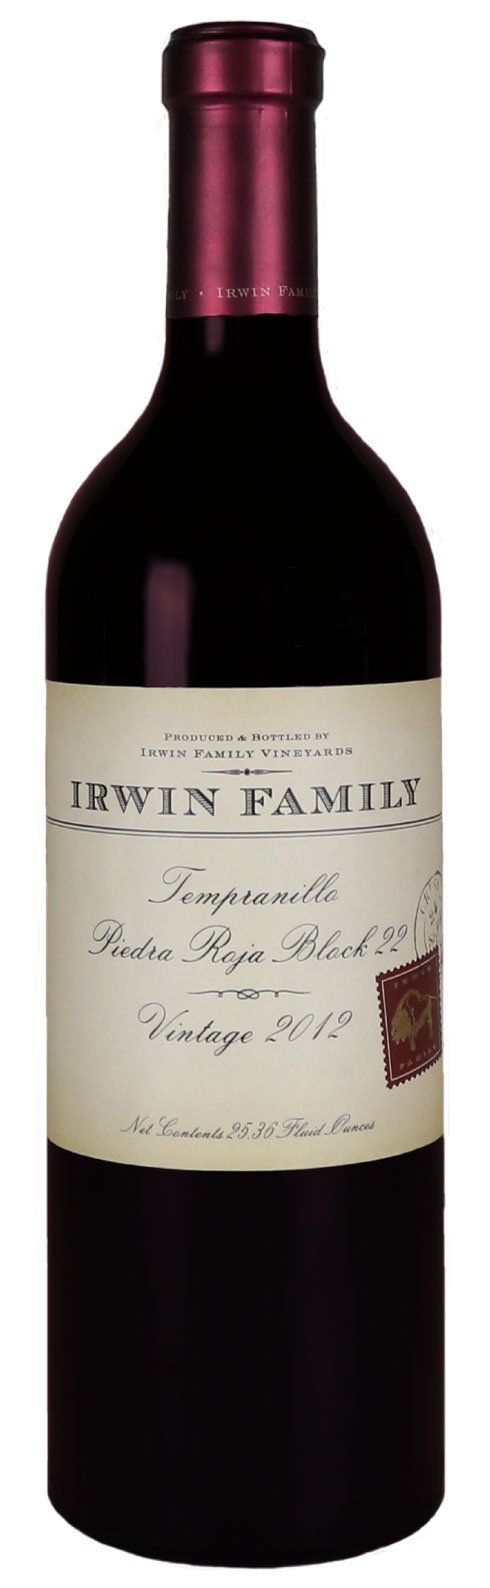
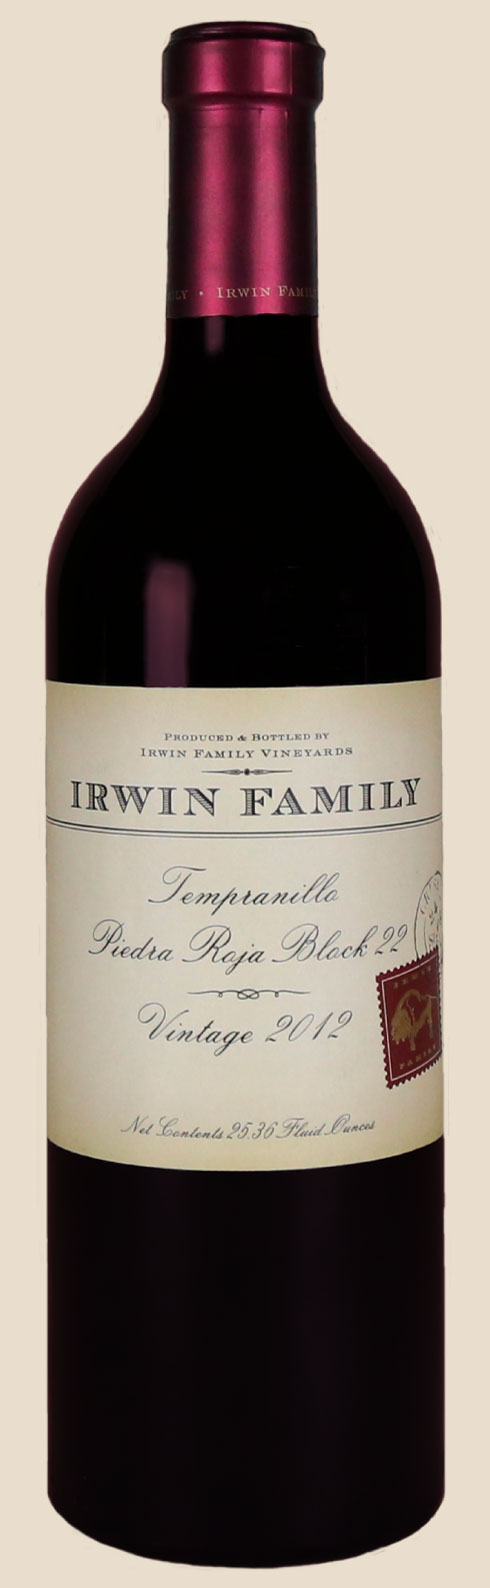
Updated images

diff --git a/_wine/tempranillo.md b/_wine/tempranillo.md
@@ -3,8 +3,8 @@ layout: wine
 year: 2012
 title: Tempranillo
 sub: Piedra Roja Block 22
-bg-image: app/images/tempranillo.jpg
-color-image: app/images/wine--temparnillo.jpg
+bg-image: /app/images/tempranillo.jpg
+color-image: /app/images/wine--temparnillo.jpg
 intro:
     title: The Tempranillo That Could
     content: "A little over two years in large format French Oak barrels and another 8 months months in bottle, allows our single vineyard Tempranillo to exhibit bright aromas and flavors of pomegranate, plum, dark cherry, herbs & boysenberry jam. These lead into hints of dark chocolate, sweet blonde tobacco and dusty/earthy aromas and flavors. The well balanced acidity and ripe/mature tannins, help round out this 100% varietal Tempranillo. Our Tempranillo pairs well with Spanish Chilindron stew, a  rack of lamb or any dishes incorporating rosemary and thyme."
@@ -27,7 +27,7 @@ tec:
         - "Sausage"
         - "Pasta"
     cents: "I grew this little beauty about fifteen years ago. It blew my mind, and has consistently been blowing my mind since. Try this, it’s a game changer."
-image: 'app/images/bottle--tempranillo.png'
+image: '/app/images/bottle--tempranillo.jpg'
 price: $28.00
 club: true
 techsheet:

diff --git a/_wine/the-bull.md b/_wine/the-bull.md
@@ -3,8 +3,8 @@ layout: wine
 year: 2014
 title: The Bull
 sub:
-bg-image: app/images/tempranillo.jpg
-color-image: app/images/wine--the-bull.jpg
+bg-image: /app/images/tempranillo.jpg
+color-image: /app/images/wine--the-bull.jpg
 intro:
     title:
     content:
@@ -19,7 +19,7 @@ tec:
     accolades:
     pairing:
     cents:
-image: app/images/bottle--the-bull .png
+image: /app/images/bottle--the-bull.jpg
 price:
 club:
 techsheet:

diff --git a/_wine/the-mix.md b/_wine/the-mix.md
@@ -3,8 +3,8 @@ layout: wine
 year: 2013
 title: The Mix
 sub:
-bg-image: app/images/tempranillo.jpg
-color-image: app/images/wine--the-mix.jpg
+bg-image: /app/images/tempranillo.jpg
+color-image: /app/images/wine--the-mix.jpg
 intro:
     title:
     content:
@@ -22,7 +22,7 @@ tec:
     accolades:
     pairing:
     cents:
-image: app/images/bottle--the-mix.png
+image: /app/images/bottle--the-mix.png
 price:
 club:
 techsheet:

diff --git a/_wine/verdejo.md b/_wine/verdejo.md
@@ -3,8 +3,8 @@ layout: wine
 year: 2014
 title: Verdejo
 sub:
-bg-image: app/images/tempranillo.jpg
-color-image: app/images/wine--verdejo.jpg
+bg-image: /app/images/tempranillo.jpg
+color-image: /app/images/wine--verdejo.jpg
 intro:
     title:
     content:
@@ -19,7 +19,7 @@ tec:
     accolades:
     pairing:
     cents:
-image: app/images/bottle--verdejo.png
+image: /app/images/bottle--verdejo.jpg
 price:
 club:
 techsheet:
